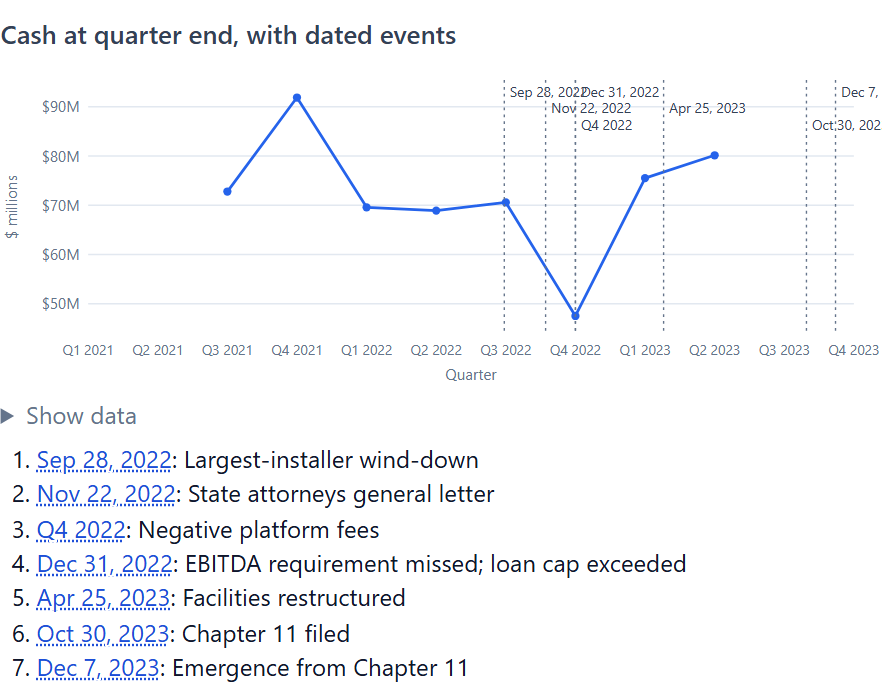
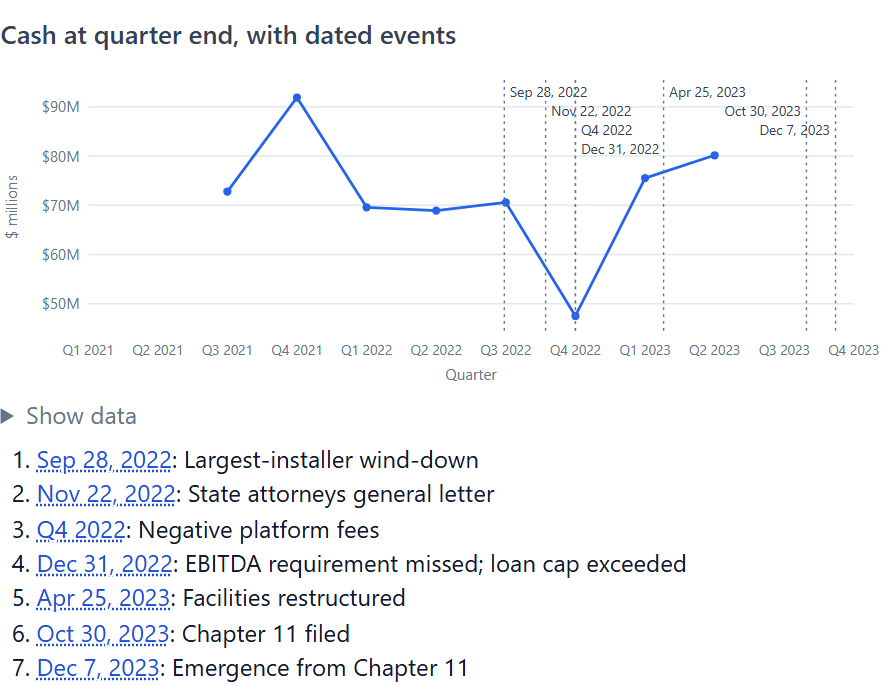
fix: Vercel CLI upload allowlist, non-overlapping chart event labels, refreshed findings images
The CLI tests directory paths without a trailing slash, so the !/src/-style re-includes never
matched and only five root files were uploaded. Event labels on line charts are packed into rows
and flip left at the right edge; the capture script measures them and fails on any overlap or clip.

Changed region(s): [[0.6122, 0.1224, 1.0, 0.2449]]

diff --git a/src/ui/funding/markerLabels.test.js b/src/ui/funding/markerLabels.test.js
@@ -1,0 +1,49 @@
+// Marker-label placement: the public-record events on the cash charts' quarter axis get labels that
+// neither overlap within a row nor run past the plot's edges.
+
+import { describe, it, expect } from "vitest";
+import fs from "node:fs";
+import path from "node:path";
+import { fileURLToPath } from "node:url";
+import { layoutMarkerLabels } from "./markerLabels.js";
+import { eventX } from "../publicRecord/format.js";
+
+const ROOT = path.resolve(path.dirname(fileURLToPath(import.meta.url)), "../../..");
+const events = JSON.parse(fs.readFileSync(path.join(ROOT, "data/public-record/events.json"), "utf8")).events;
+
+// The cash charts' geometry: 12 quarters (Q1 2021 to Q4 2023) across a 640-wide chart.
+const W = 640, LEFT = 64, RIGHT = W - 20;
+const sx = (x) => LEFT + (x / 11) * (RIGHT - LEFT);
+
+describe("layoutMarkerLabels", () => {
+  const markers = events.map((e) => ({ x: eventX(e.date), label: e.dateLabel }));
+  const placed = layoutMarkerLabels(markers, sx, RIGHT);
+
+  it("keeps every label inside the plot", () => {
+    for (const p of placed) {
+      expect(p.left).toBeGreaterThanOrEqual(LEFT);
+      expect(p.right).toBeLessThanOrEqual(RIGHT);
+    }
+  });
+
+  it("never overlaps two labels in the same row, including events on the same date", () => {
+    for (let a = 0; a < placed.length; a++) {
+      for (let b = a + 1; b < placed.length; b++) {
+        if (placed[a].row !== placed[b].row) continue;
+        expect(placed[a].right <= placed[b].left || placed[b].right <= placed[a].left).toBe(true);
+      }
+    }
+    expect(new Set(placed.map((p) => p.row)).size).toBeGreaterThan(1);
+  });
+
+  it("draws a label left of its line only when it would cross the right edge", () => {
+    for (const [i, p] of placed.entries()) {
+      const fits = sx(markers[i].x) + 4 + (p.right - p.left) <= RIGHT;
+      expect(p.anchor).toBe(fits ? "start" : "end");
+    }
+  });
+
+  it("leaves a marker with a y value on the first row", () => {
+    expect(layoutMarkerLabels([{ x: 1, y: 0, label: "Break-even 112.8 bps" }, { x: 1, y: 0, label: "Other" }], sx, RIGHT).map((p) => p.row)).toEqual([0, 0]);
+  });
+});

diff --git a/src/ui/funding/markerLabels.js b/src/ui/funding/markerLabels.js
@@ -1,0 +1,33 @@
+// src/ui/funding/markerLabels.js — Placement of LineChart marker labels. Labels of markers without
+// a y value are packed into rows, left to right, so no two in a row overlap; a label that would run
+// past the plot's right edge is drawn to the left of its marker line instead. Widths are estimated
+// from the label length at the chart's 10-unit font, with a margin.
+
+export const LABEL_CHAR_WIDTH = 6;
+export const LABEL_GAP = 6;
+const OFFSET = 4;
+
+/**
+ * markers: [{ x, y?, label }]; sx maps data x to chart x; right is the plot's right edge in chart
+ * units. Returns one { x, anchor, row, left, right } per marker, in the input order.
+ */
+export function layoutMarkerLabels(markers, sx, right) {
+  const rowEnds = [];
+  const placed = new Array(markers.length);
+  const order = markers.map((m, i) => i).sort((a, b) => sx(markers[a].x) - sx(markers[b].x));
+  for (const i of order) {
+    const m = markers[i];
+    const width = String(m.label).length * LABEL_CHAR_WIDTH;
+    const line = sx(m.x);
+    const flip = line + OFFSET + width > right;
+    const left = flip ? line - OFFSET - width : line + OFFSET;
+    let row = 0;
+    if (!Number.isFinite(m.y)) {
+      row = rowEnds.findIndex((end) => left >= end + LABEL_GAP);
+      if (row < 0) { row = rowEnds.length; rowEnds.push(-Infinity); }
+      rowEnds[row] = left + width;
+    }
+    placed[i] = { x: flip ? line - OFFSET : line + OFFSET, anchor: flip ? "end" : "start", row, left, right: left + width };
+  }
+  return placed;
+}

diff --git a/src/ui/funding/LineChart.jsx b/src/ui/funding/LineChart.jsx
@@ -4,6 +4,7 @@
 
 import React, { useState } from "react";
 import { styles } from "../theme.js";
+import { layoutMarkerLabels } from "./markerLabels.js";
 
 const W = 640, H = 240, PAD = { top: 16, right: 20, bottom: 40, left: 64 };
 const SERIES = "#2563eb";
@@ -56,6 +57,7 @@ export function LineChart({ points, title, xLabel, yLabel, refLines = [], marker
     setHover(best);
   };
   const tipX = (x) => Math.min(sx(x) + 8, W - PAD.right - 170);
+  const labels = layoutMarkerLabels(markers, sx, W - PAD.right);
 
   return (
     <figure style={{ margin: "8px 0 0" }} data-testid={testId}>
@@ -95,7 +97,7 @@ export function LineChart({ points, title, xLabel, yLabel, refLines = [], marker
           <g key={`m${m.label}`}>
             <line x1={sx(m.x)} x2={sx(m.x)} y1={PAD.top} y2={H - PAD.bottom} stroke={MUTED} strokeWidth={1} strokeDasharray="2 3" />
             {Number.isFinite(m.y) && <circle cx={sx(m.x)} cy={sy(m.y)} r={5} fill={SERIES} stroke="white" strokeWidth={2} />}
-            <text x={sx(m.x) + 4} y={PAD.top + 12 + (m.y === undefined ? (i % 3) * 12 : 0)} fontSize={10} fill={INK}>{m.label}</text>
+            <text x={labels[i].x} y={PAD.top + 12 + labels[i].row * 14} textAnchor={labels[i].anchor} fontSize={10} fill={INK} data-marker-label="">{m.label}</text>
           </g>
         ))}
         {hover && (

diff --git a/docs/findings/README.md b/docs/findings/README.md
@@ -1,6 +1,6 @@
 # Findings images
 
-Captured by `npm run capture:findings` (scripts/capture-findings.mjs) from the app built at commit dc40862 plus uncommitted changes, profile `solar-prime`, at 1280×800 and 2× scale. The dealer figures come from the synthetic funded portfolio generated with seed 42 before capture, so they match the numbers on the Findings tab. Borrowers and dealers are synthetic; only the public-record facts are real, and each one is sourced in the app.
+Captured by `npm run capture:findings` (scripts/capture-findings.mjs) from the app built at commit f525f61, plus the changes committed together with these images, profile `solar-prime`, at 1280×800 and 2× scale. The dealer figures come from the synthetic funded portfolio generated with seed 42 before capture, so they match the numbers on the Findings tab. Borrowers and dealers are synthetic; only the public-record facts are real, and each one is sourced in the app.
 
 | Image | Caption | Source |
 |---|---|---|
